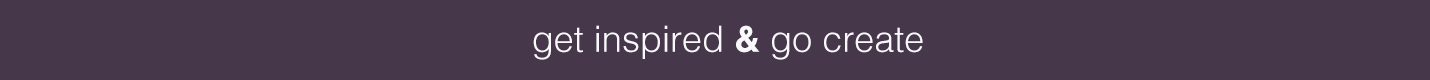
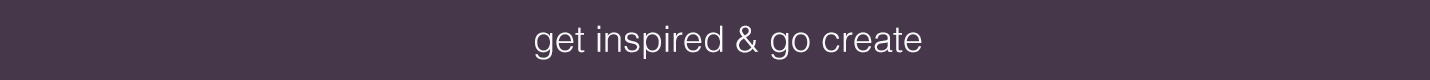
images, headers, featured psd

Changed region(s): [[0.3692, 0.325, 0.6462, 0.75], [0.5231, 0.675, 0.5538, 0.725], [0.4, 0.325, 0.4308, 0.375]]

diff --git a/final/index.html b/final/index.html
@@ -1,7 +1,7 @@
 <!DOCTYPE html>
 <html>
 
-<link href='http://fonts.googleapis.com/css?family=Marvel' rel='stylesheet' type='text/css'>
+<!-- <link href='http://fonts.googleapis.com/css?family=Marvel' rel='stylesheet' type='text/css'> -->
   <head>
     <meta charset="utf-8">
     <title>w&g</title>
@@ -14,33 +14,38 @@
 
 <header>
    <img class="logo" src=images/logo.png>
-
+<div class="header"><img src=images/header.png></div>
 </header>
 <body>
 <!-- <h1 class="motto">Get inspired : Go create</h1> -->
-    <img class"header" src=images/header.png>
+
     <div class="post">
-<h2 class="post-title">Good food gathers great people</h2>
+<h2>sometimes you need $4 toast</h2>
+  <img class="toast" src=images/toast.JPG>
+  <p>If you haven't been to The Mill, do so asap.</p>
+<h2 class="post-title">good food gathers great people</h2>
     <p class="post-info"><iframe src="https://player.vimeo.com/video/47559223?title=0&byline=0&portrait=0" width="500" height="281" frameborder="0" webkitallowfullscreen mozallowfullscreen allowfullscreen></iframe> <p><a href="https://vimeo.com/47559223">raspberry tart</a> from <a href="https://vimeo.com/mrwalker">tiger in a jar</a><i class="fa fa-vimeo"></i></p>
     <div class="post">
       <br></br>
       <img class="icon" src=images/wg-logo-nowords.png>
-<h2>Featured product</h2>
+<h2>featured product</h2>
     <img class="featured" src="http://cdn.shopify.com/s/files/1/0164/4368/products/be_wine_loose_tee_1024x1024.jpg?v=1414594602">
     <p class = "post-copy">Life, a shirt imploring its viewer to "be wine". If only we could magically transform humans into alcohol.</p>
     <button href="http://stayhomeclub.com/collections/women/products/be-wine-loose-tee" target="_blank" class="pulse">buy me here</button>
     <br></br>
     <img class="icon" src=images/wg-logo-nowords.png>
-<h2>As the Holidays approach, be inspired by Kinfolk</h2>
+<h2>be inspired by kinfolk</h2>
     <iframe src="https://player.vimeo.com/video/32302790?title=0&byline=0&portrait=0" width="500" height="281" frameborder="0" webkitallowfullscreen mozallowfullscreen allowfullscreen></iframe> <p><a href="https://vimeo.com/32302790">holiday gathering</a> from <a href="https://vimeo.com/mrwalker">tiger in a jar</a><i class="fa fa-vimeo"></i></p>
     <br></br>
     <img class="icon" src=images/wg-logo-nowords.png>
-<h2 class="featured-artist">Featured Artist</h2><<iframe src="https://player.vimeo.com/video/139601423" width="500" height="281" frameborder="0" webkitallowfullscreen mozallowfullscreen allowfullscreen></iframe> <p><a href="https://vimeo.com/139601423">The Arcs - Outta My Mind</a> from<a href="https://vimeo.com">Vimeo</a><i class="fa fa-vimeo"></i></p>
+<div><img class="artist"src=images/arcs.png></div>
+<!-- <h2 class="featured-artist">Featured Artist</h2> -->
+<<iframe src="https://player.vimeo.com/video/139601423" width="500" height="281" frameborder="0" webkitallowfullscreen mozallowfullscreen allowfullscreen></iframe> <p><a href="https://vimeo.com/139601423">The Arcs - Outta My Mind</a> from<a href="https://vimeo.com">Vimeo</a><i class="fa fa-vimeo"></i></p>
     <br></br>
     <p>Yours, Dreamily, is the debut album by The Arcs, a side-project by Dan Auerbach of The Black Keys. The album originated as an Auerbach solo project but morphed into a collaborative effort, with musicians Leon Michels, Richard Swift, Homer Steinweiss, and Nick Movshon. All members of the band share songwriting credit for the album.</p>
     <br></br>
     <img class="icon" src=images/wg-logo-nowords.png>
-<h2 class="food-post">Get your drink on</h2>
+<h2 class="food-post">get your drink on</h2>
     <br></br>
     <img class="drinks" src="https://www.kinfolk.com/wp-content/uploads/2015/08/Kinfolk_Vol17_TheBloodMenu-3.jpg">
     <p class="ginger-sour">This crimson-hued cocktail mixes some of our favorite flavors: wine, whiskey and ginger, with a bright splash of lemon. Bloody good.
@@ -50,7 +55,7 @@
     <li>2 ounces (60 milliliters) rye or bourbon whiskey</li>
     <li>1 ounce (30 milliliters) Ginger Simple Syrup</li>
     <li>¾ ounce (20 milliliters) fresh lemon juice</li>
-    <li>½ ounce (15 milliliters) dry, full-bodied red wine, such as Malbec</li>
+    <li>½ ounce (15 milliliters) dry, full-bodied red wine</li>
 </div>
   </ul>
     <button class="pulse" href="https://www.kinfolk.com/the-blood-menu-new-york-ginger-sour/"target="_blank">full story here</button>

diff --git a/final/stylesheet.css b/final/stylesheet.css
@@ -12,7 +12,10 @@ header {
   left: 0;
 //  margin-bottom: 20px;
   /*border-bottom: 7px solid #604345;*/
-
+}
+.header{
+background-color: #4b344b;
+margin-top:60px;
 }
 
 p {
@@ -45,33 +48,25 @@ height:350px;
 .post-title{
   text-align: center;
 }
+
+
 body {
-  font-family: 'Marvel' , sans-serif;
+  font-family: "HelveticaNeue-Light", "Helvetica Neue Light", "Helvetica Neue", Helvetica, Arial, "Lucida Grande", sans-serif;
+  font-weight: 300;
+  /*font-family: 'Marvel' , sans-serif;*/
   font-size: 20px;
   /*line-height: 30px;*/
   /*color: #604345;*/
   margin:0;
   text-align: center;
-
-
-
 }
-/*.motto {
-  color: white;
-  font-size: 50px;
-  background-color: #604345;
-  line-height: 80px;
-  margin: auto;
-  margin-bottom: 40px;
-  border:1px solid #604345
 
-}*/
 
 h2{
+  font-weight: lighter;
   /*border-radius: 5px;*/
   color: white;
   text-align: center;
-  padding: 5px;
   border: 1px solid #4b344b;
   width:600px;
   margin: auto;
@@ -79,6 +74,9 @@ h2{
   margin-top: 30px;
   padding-left: 20px;
   background-color:#4b344b;
+}
+.artist{
+  text-align: center;
 }
 .featured{
   height: 550px;
